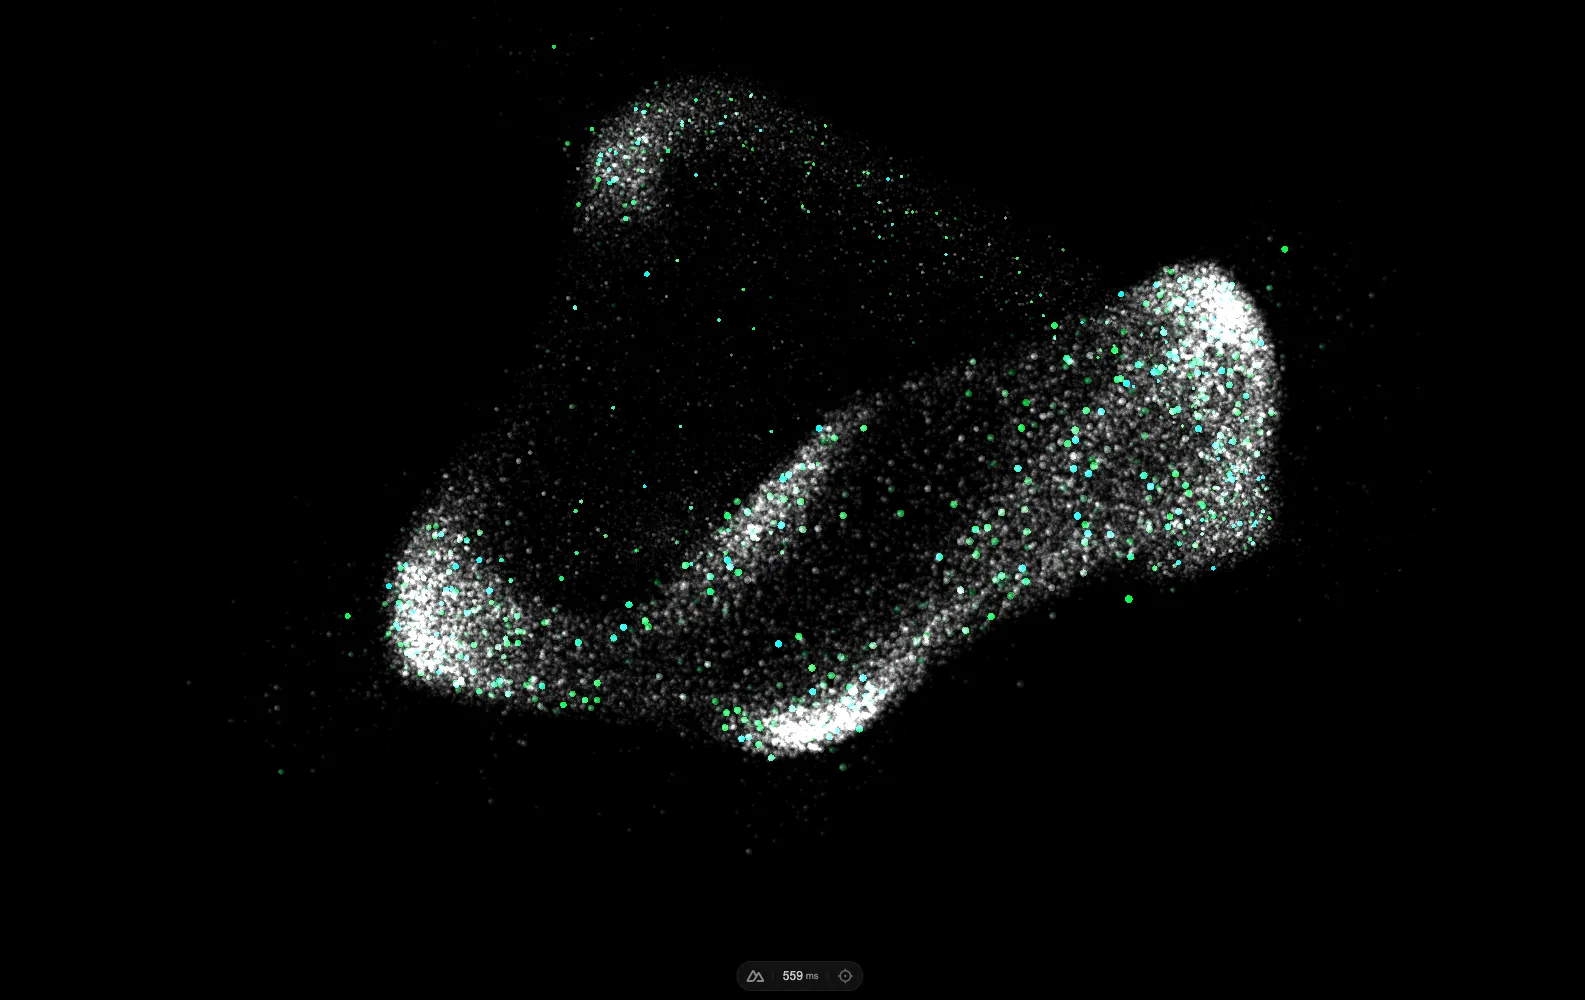
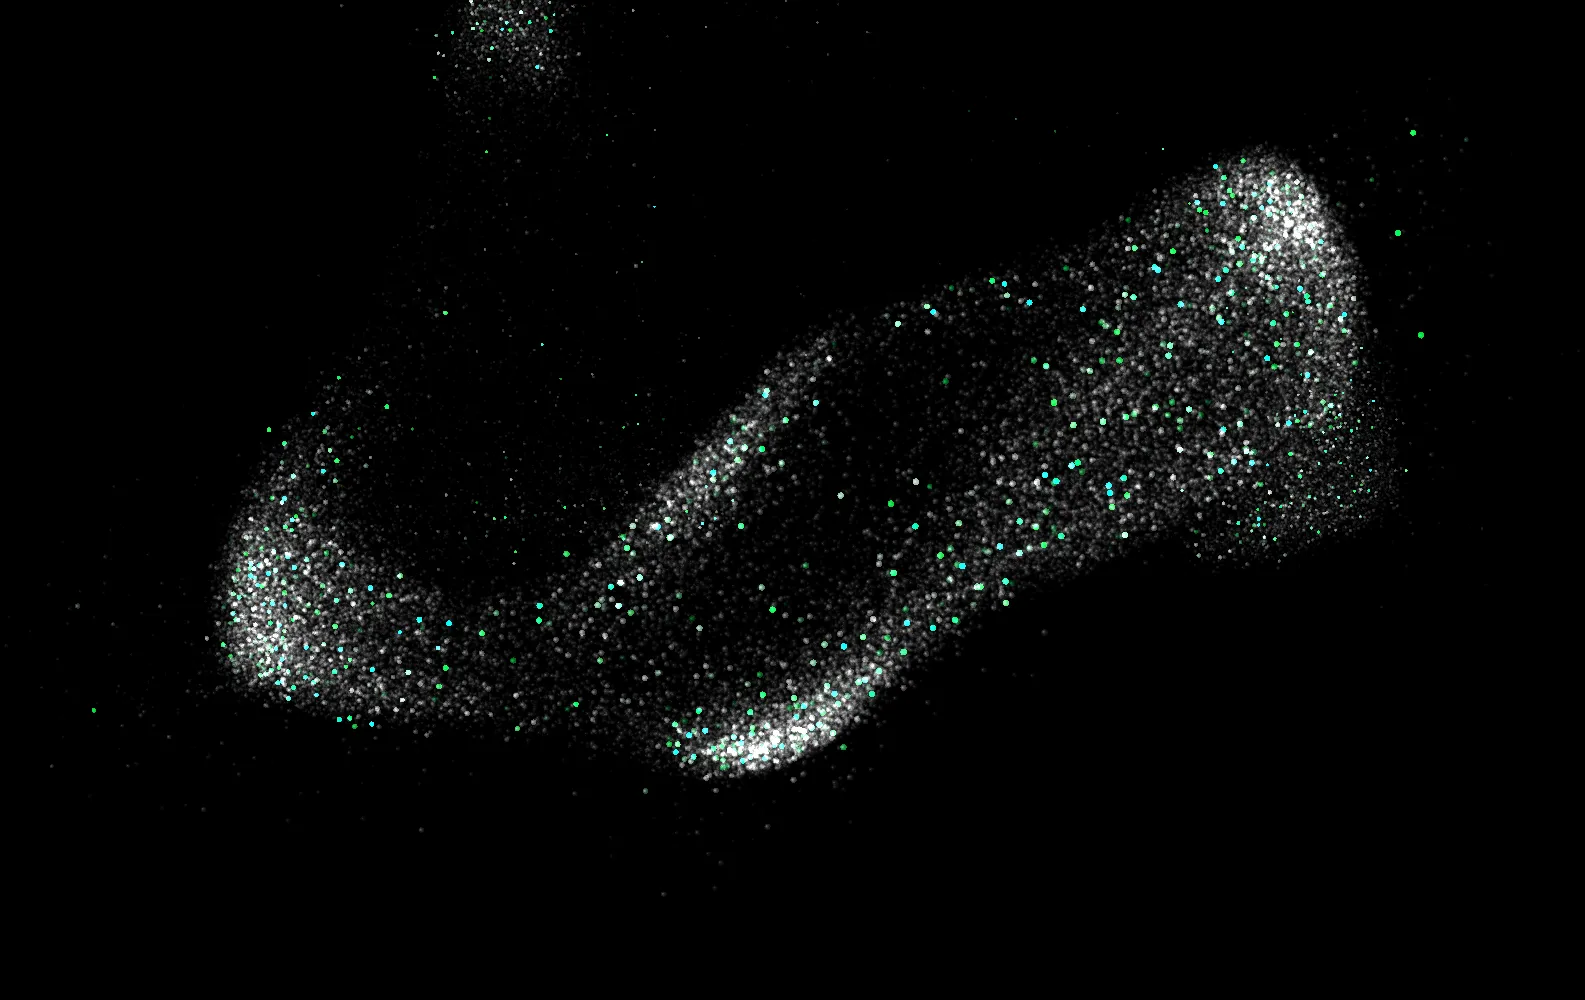
feat: 首屏粒子按宽高比铺满，文案叠在粒子上层
- 粒子大小改为按画布宽高比缩放（fill × 宽/高，限制在 1–2.2 倍），
  宽屏、矮屏下也几乎铺满首屏；点的屏幕尺寸不变，灰色主体亮度按
  √scale 提升，放大后不显稀疏。
- 首屏文字全部叠在粒子上：去掉 plus-lighter（铺满后会把灰色行洗掉），
  改为黑色光晕 + 首屏下半部渐变底，保证可读。
- 重拍桌面/手机海报，并更新 DESIGN.md 与首页设计记录。

diff --git a/pages/index.vue b/pages/index.vue
@@ -5,8 +5,9 @@
       <HeroParticles
         :shift-x="HERO_FORM.shiftX"
         :shift-y="HERO_FORM.shiftY"
-        :wide-scale="HERO_FORM.wideScale"
-        :wide-from="HERO_FORM.wideFrom"
+        :fill="HERO_FORM.fill"
+        :max-scale="HERO_FORM.maxScale"
+        :fill-from="HERO_FORM.fillFrom"
       />
 
       <div class="hero__ui">
@@ -275,10 +276,10 @@ import {
 // The home page is always dark: the hero is a black WebGL field.
 definePageMeta({ layout: 'landing', colorMode: 'dark' })
 
-// The particle form is centred and large; the headline and the offer sit on
-// either side of it along the bottom edge. shiftX/shiftY nudge the form's
-// centre (fractions of the canvas), wideScale grows it on wide screens.
-const HERO_FORM = { shiftX: 0.02, shiftY: -0.02, wideScale: 1.22, wideFrom: 1100 }
+// The particle form fills the first viewport and the type sits on top of it.
+// fill × aspect sets its size (1.6× at 16:10, capped at 2.2× on very wide,
+// short screens); shiftX/shiftY nudge its centre as fractions of the canvas.
+const HERO_FORM = { shiftX: 0, shiftY: 0.03, fill: 1.0, maxScale: 2.2, fillFrom: 768 }
 
 // ─── FAQ ──────────────────────────────────────────────────────────────────────
 const homeFaqs = [
@@ -587,6 +588,14 @@ onMounted(async () => {
   overflow: hidden;
   isolation: isolate;
 }
+.hero::after {
+  content: '';
+  position: absolute;
+  inset: 52% 0 0;
+  z-index: 0;
+  background: linear-gradient(to bottom, transparent, rgb(0 0 0 / 0.72) 70%);
+  pointer-events: none;
+}
 .hero__ui {
   position: relative;
   z-index: 1;
@@ -604,7 +613,9 @@ onMounted(async () => {
 .hero__ui button {
   pointer-events: auto;
 }
-/* The headline glows into the cloud; the offer column stays solid. */
+/* All type sits on top of the cloud. The cloud is bright enough that additive
+   blending washed the grey line out, so every line carries a black halo and
+   the bottom band gets a soft scrim (.hero::after) instead. */
 .hero__title {
   display: flex;
   flex-direction: column;
@@ -614,10 +625,10 @@ onMounted(async () => {
   letter-spacing: -0.04em;
   color: #fff;
   text-transform: uppercase;
-  mix-blend-mode: plus-lighter;
+  text-shadow: 0 0 24px #000, 0 0 6px rgb(0 0 0 / 0.9);
 }
 .hero__title-dim {
-  color: #7a7a7a;
+  color: #8f8f8f;
 }
 .hero__side {
   display: flex;
@@ -688,12 +699,8 @@ onMounted(async () => {
   /* On a phone the type stack covers the lower half of the poster, so fade
      that half toward black to keep the dim headline line readable. */
   .hero::after {
-    content: '';
-    position: absolute;
     inset: 40% 0 0;
-    z-index: 0;
     background: linear-gradient(to bottom, transparent, rgb(0 0 0 / 0.85) 55%);
-    pointer-events: none;
   }
   .hero__ui {
     gap: 24px;

diff --git a/lib/particle-hero/index.ts b/lib/particle-hero/index.ts
@@ -33,9 +33,14 @@ export interface HeroOptions {
   shiftX?: number
   /** Vertical shift of the form's centre, as a fraction of canvas height (+ = up). */
   shiftY?: number
-  /** Size multiplier for the form at or above `wideFrom` px of canvas width. */
-  wideScale?: number
-  wideFrom?: number
+  /**
+   * Grow the form with the canvas aspect so it fills the viewport width:
+   * scale = fill × (width / height), clamped to [1, maxScale]. At or above
+   * `fillFrom` px of canvas width only; 0 keeps the form at its base size.
+   */
+  fill?: number
+  maxScale?: number
+  fillFrom?: number
   onReady?: () => void
   onLost?: () => void
 }
@@ -70,8 +75,9 @@ export function createParticleHero(opts: HeroOptions): ParticleHero {
   const spec = TIERS[tier]
   const shiftX = opts.shiftX ?? 0
   const shiftY = opts.shiftY ?? 0
-  const wideScale = opts.wideScale ?? 1
-  const wideFrom = opts.wideFrom ?? Infinity
+  const fill = opts.fill ?? 0
+  const maxScale = opts.maxScale ?? 1
+  const fillFrom = opts.fillFrom ?? Infinity
 
   const renderer = new WebGLRenderer({ canvas, antialias: false, alpha: false, powerPreference: 'high-performance' })
   renderer.setClearColor(0x000000, 1)
@@ -123,9 +129,12 @@ export function createParticleHero(opts: HeroOptions): ParticleHero {
     camera.setViewOffset(width, height, -shiftX * width, shiftY * height, width, height)
     camera.updateProjectionMatrix()
     fluid.aspect = width / height
-    const formScale = width >= wideFrom ? wideScale : 1
+    const formScale =
+      width >= fillFrom ? MathUtils.clamp(fill * (width / height), 1, maxScale) : 1
     group.scale.copy(BASE_SCALE).multiplyScalar(formScale)
-    field.setPointScale(dpr, (height / REFERENCE_HEIGHT) * spec.pointBoost * formScale)
+    // Points keep their on-screen size however big the form gets (growing them
+    // turns it into snow); the grey body brightens instead to hold its density.
+    field.setPointScale(dpr, (height / REFERENCE_HEIGHT) * spec.pointBoost, Math.sqrt(formScale))
   }
 
   function updateCamera(): void {

diff --git a/components/hero/HeroParticles.vue b/components/hero/HeroParticles.vue
@@ -21,8 +21,15 @@ import { detectHeroTier, type HeroTier } from '~/lib/particle-hero/capability'
 import type { ParticleHero } from '~/lib/particle-hero'
 
 const props = withDefaults(
-  defineProps<{ accent?: string; shiftX?: number; shiftY?: number; wideScale?: number; wideFrom?: number }>(),
-  { accent: '#00ffa3', shiftX: 0, shiftY: 0, wideScale: 1, wideFrom: Infinity }
+  defineProps<{
+    accent?: string
+    shiftX?: number
+    shiftY?: number
+    fill?: number
+    maxScale?: number
+    fillFrom?: number
+  }>(),
+  { accent: '#00ffa3', shiftX: 0, shiftY: 0, fill: 0, maxScale: 1, fillFrom: Infinity }
 )
 
 // Served from /public; bound (not literal) so Vite leaves the paths alone.
@@ -74,8 +81,9 @@ async function boot(): Promise<void> {
       accent: props.accent,
       shiftX: props.shiftX,
       shiftY: props.shiftY,
-      wideScale: props.wideScale,
-      wideFrom: props.wideFrom,
+      fill: props.fill,
+      maxScale: props.maxScale,
+      fillFrom: props.fillFrom,
       onReady: () => (ready.value = true),
       onLost: fallback
     })

diff --git a/lib/particle-hero/shaders/particles.ts b/lib/particle-hero/shaders/particles.ts
@@ -109,6 +109,7 @@ precision highp float;
 uniform sampler2D uMatcap;
 uniform float uTime;
 uniform vec3 uAccent;
+uniform float uGain;
 varying vec4 vRandom;
 varying float vScale;
 
@@ -133,7 +134,9 @@ void main() {
   if (dot(c, c) > 0.25) discard;
   if (vScale < 0.1) discard;
 
-  vec3 color = vec3(mix(0.0, 0.2, vRandom.x));
+  // Grey body brightened by uGain: a bigger form spreads the same points over
+  // more screen, so without it the shape thins out and loses its read.
+  vec3 color = vec3(mix(0.0, 0.2, vRandom.x) * uGain);
   color = mix(color, uAccent, pow(vRandom.z, 220.0));
 
   // Twinkle slowed from the brief's 4 rad/s, which read as flicker at rest.

diff --git a/lib/particle-hero/particles.ts b/lib/particle-hero/particles.ts
@@ -157,6 +157,7 @@ export class ParticleField {
         uTime: { value: 0 },
         uDpr: { value: 1 },
         uSizeScale: { value: 1 },
+        uGain: { value: 1 },
         uAccent: { value: accent }
       },
       transparent: true,
@@ -168,9 +169,10 @@ export class ParticleField {
     this.points.frustumCulled = false
   }
 
-  setPointScale(dpr: number, sizeScale: number): void {
+  setPointScale(dpr: number, sizeScale: number, gain = 1): void {
     this.drawMat.uniforms.uDpr.value = dpr
     this.drawMat.uniforms.uSizeScale.value = sizeScale
+    this.drawMat.uniforms.uGain.value = gain
   }
 
   step(inputs: FieldInputs): void {

diff --git a/DESIGN.md b/DESIGN.md
@@ -237,7 +237,7 @@ Sections stack as full-bleed bands separated by a single top hairline. Vertical 
 
 The recurring section composition is a 5 / 7 split at ≥1024px with a 64px gap (40px stacked below). The left column holds the headline, lede and one text link, and sticks at `top: 96px` while the right column scrolls. On mobile it collapses to one column with the head first.
 
-The hero fills `100svh`. The particle form is centred and large (×1.22 at ≥1100px), and the type sits on either side of it along the bottom edge: the two-tone headline bottom-left; bottom-right a 380px offer column with the highlights list, a one-line lede and the two CTAs. Below 1100px the two stack. There is no counter, scroll cue or chip row in the hero. Pointer events are off on the type layer so the canvas under it receives the cursor; only links and buttons re-enable them.
+The hero fills `100svh` and the particle form fills it too: its scale is `fill × (width / height)` clamped to [1, 2.2] at ≥768px (1.6× at 16:10, 2.2× on short wide screens), with point size held constant and the grey body brightened by √scale so the larger form keeps its density. All type sits on top of the form along the bottom edge: the two-tone headline bottom-left; bottom-right a 380px offer column with the highlights list, a one-line lede and the two CTAs. Below 1100px the two stack. There is no counter, scroll cue or chip row in the hero. Pointer events are off on the type layer so the canvas under it receives the cursor; only links and buttons re-enable them.
 
 **Highlights list.** Non-interactive facts are set as a spec list, never as chips or buttons: 12px uppercase ink, a 6px square marker per line, no fill or border. The single key offer (free tokens) is Signal Green, marker included. Chips stay reserved for things you can press, such as the model tabs.
 
@@ -254,7 +254,7 @@ Inner spacing: 6px between chips, 10px between CTAs, 28px between hero groups, r
 
 The world is flat. There are no box-shadows. Depth comes from three things: the live particle field behind the type, tonal steps of black (void #000, well #050505, counter #0a0a0a), and the translucent nav (`rgb(0 0 0 / 0.72)` on home, `color-mix(surface 78%)` elsewhere, with 16px backdrop blur and a hairline once scrolled).
 
-Over the cloud, legibility is protected rather than decorated. The hero headline and chip row use `mix-blend-mode: plus-lighter` so they glow into the particles. The lede carries a black halo (`text-shadow: 0 0 12px #000, 0 0 2px #000`); no body copy sits over the cloud.
+Over the cloud, legibility is protected rather than decorated. Every hero line sits over the cloud, so the headline carries a black halo (`0 0 24px #000, 0 0 6px rgb(0 0 0 / 0.9)`), the facts and lede a lighter one (`0 0 12px #000, 0 0 2px #000`), and the lower half of the hero has a scrim (`transparent` → `rgb(0 0 0 / 0.72)`, deeper on phones). Additive blending was dropped for hero type: over a viewport-filling cloud it washed the grey line out.
 
 ### Named Rules
 **The Flat Instrument Rule.** No box-shadows, no glows on surfaces. If something needs separation, use a hairline or a step of black.

diff --git a/.impeccable/surfaces/pages-index-vue.md b/.impeccable/surfaces/pages-index-vue.md
@@ -19,7 +19,7 @@ OWN-WORLD: Pure black ground, #262626 hairlines, grey-white particles with spars
 
 STORY: Visitor sees the price and compatibility in the first viewport, plays with the cloud, scrolls into why, a live code sample per model, FAQ, blog, then a closing instruction: change one line.
 
-FIRST VIEWPORT: Full-bleed canvas with the ring centred and large (×1.22 at ≥1100px). Type on either side along the bottom: two-line mono headline bottom-left (clamp 34–88px); bottom-right offer column (380px) with a non-interactive highlights list (free tokens in green), one-line lede, green "Get API Keys" + ghost "Explore models". No counter, scroll cue or chips (user request 2026-10-27). At rest the simulation is still; the idle float is a vertex-shader drift plus a slow whole-form sway. Facts live in the four-cell "At a glance" strip under the hero.
+FIRST VIEWPORT: The ring fills the first viewport (scale = aspect-fitted, 1.6× at 16:10, up to 2.2×) and all type is layered on top of it with halos and a bottom scrim (user request 2026-10-30). Type on either side along the bottom: two-line mono headline bottom-left (clamp 34–88px); bottom-right offer column (380px) with a non-interactive highlights list (free tokens in green), one-line lede, green "Get API Keys" + ghost "Explore models". No counter, scroll cue or chips (user request 2026-10-27). At rest the simulation is still; the idle float is a vertex-shader drift plus a slow whole-form sway. Facts live in the four-cell "At a glance" strip under the hero.
 
 FORM: Instrument-panel logbook (AXON lineage), user-pinned; open dimensions follow candidate 5 (ruled ledger topology). Seed key d69d5ee8 (degraded roll, no challengers).
 
